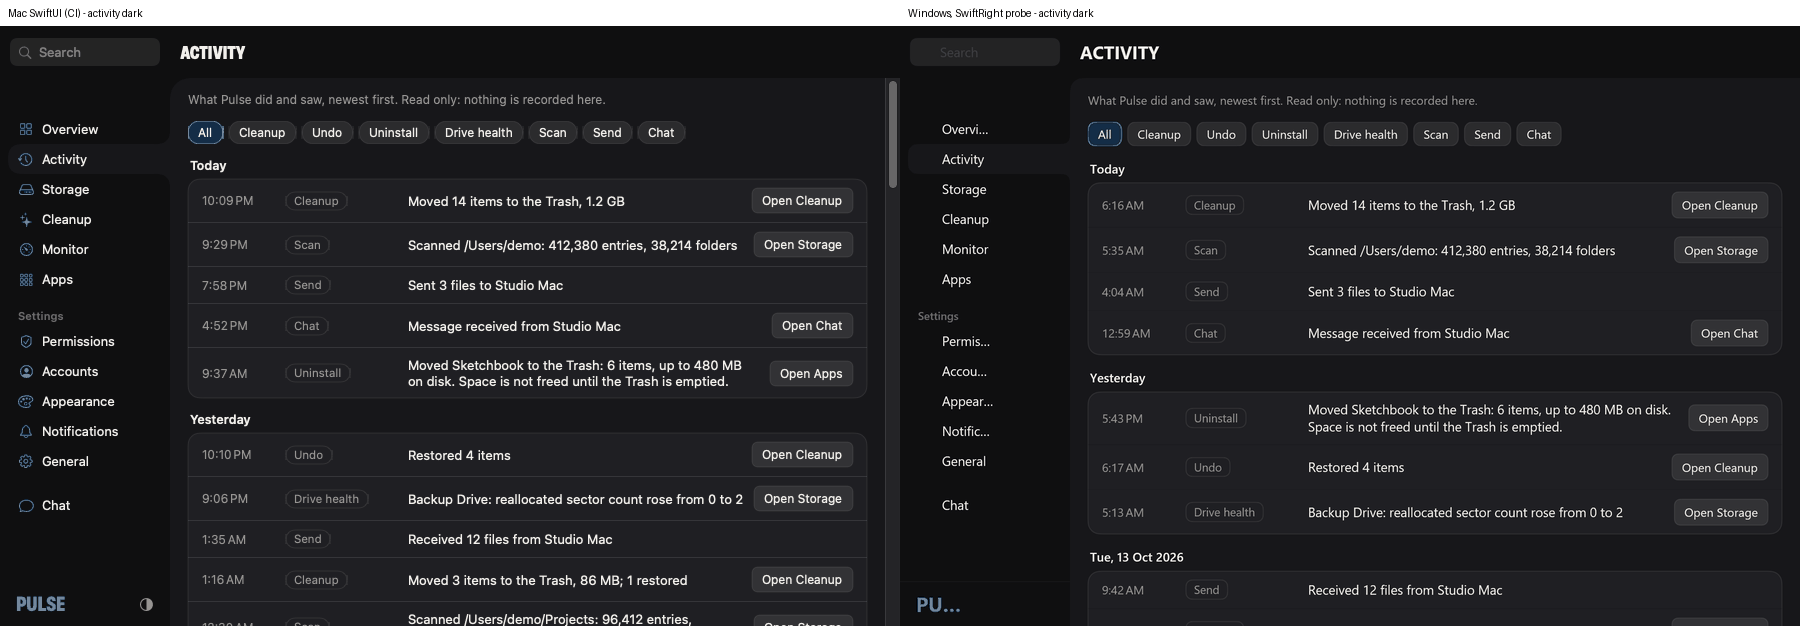
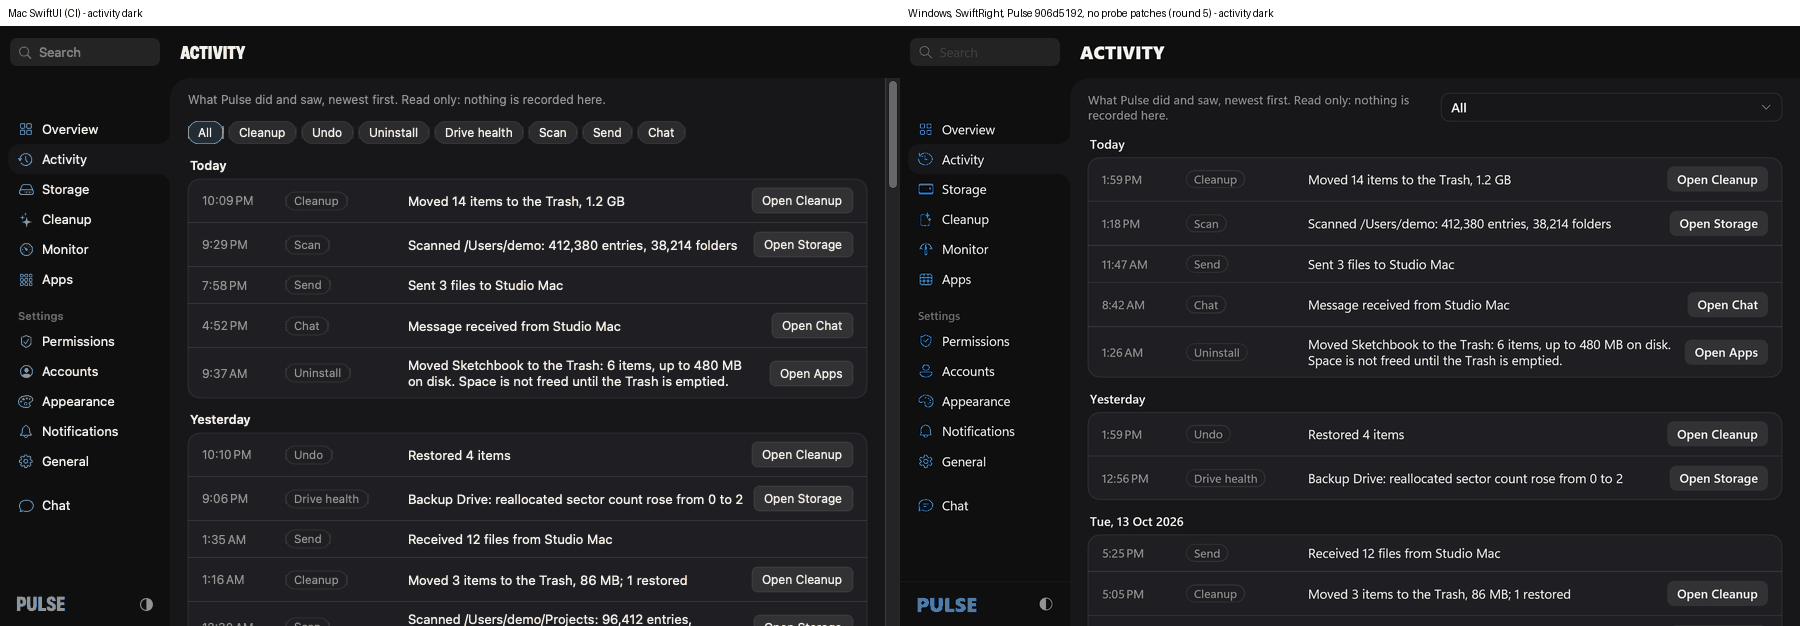
Pulse hub on Windows, round 5: all 12 sections x light/dark render unpatched at Pulse 906d5192; port doc result tables, measured effort; pictures refreshed

diff --git a/docs/pulse-hub-windows-port.md b/docs/pulse-hub-windows-port.md
@@ -8,6 +8,72 @@ Date: 15 October 2026. Requested by Pulse Swift. Inputs: Orthic-Labs/pulse code 
 - **Render: all 12 sections render in light and dark (24 of 24 pictures), but only with 14 probe patches to the product's paint and text policy** (table B). Unpatched, the first Overview frame stops at the first text measurement. The pictures are a static first frame; nothing was clicked, typed or scrolled. They are not pixel-comparable to the Mac: icons are missing (38 SF Symbols, the table holds one), fonts are approximated, and several rows truncate that do not on the Mac.
 - **Effort: about 17 agentic hours of critical path for the gaps as grouped below (16 blocks at the measured round-4 rate of 1.08 h per block, one lane), 36 h at the measured round-3 end-to-end rate.** Not included: Oracle review (round 4 has none), a fit pass over the 12 sections after the blocks land, and anything interactive. Arithmetic in section 4.
 
+## 0. Round 5 result (15 October, later the same day): the gaps are closed
+
+Pulse at `906d5192` (Pulse main, parity pass), SwiftRight stage `795d1644a-38920803`. **No stubs, no source bypass, no runtime or host patch**: the probe package is Pulse's sources untouched plus the SwiftUI re-export shim and a `Bundle.module` shim (probe packaging: PulseHub's Tanker resource bundle is not bundled, licence unconfirmed; `probes/pulse-hub/r5/`; assemble with `PULSE_SHA=906d5192 R5=1`). All five modules (`RightKitEngine`, `RightKitHub`, `RightKitHubQA`, `PulseHub`, `PulseHubFixtures`) and the `FactoryProbe` host compile for Windows with 0 errors, and **all 12 sections render in light and dark: 24 of 24 pictures** through the product's own paint and text path (`docs/pulse-hub-windows/<section>-<scheme>.png`, last panel; the Tauri and Mac panels are the earlier CI artifact and predate Pulse's parity pass). No `HOST_RENDER_ERROR`, no ellipsis-only fallback, no opaque-black rect in any section. Honest limits: the pictures are static first frames (nothing clicked, typed, scrolled; the live `.task` path never ran); nothing was compared pixel by pixel with the Mac (fonts differ, decision 2); four capture runs report `GetClientRect failed` but produced valid pictures, and a first-launch Sandbox capture occasionally comes out blank (the Activity page needs a 15-20 s wait): the pictures were re-taken until none was blank.
+
+### Compile gaps (table A)
+
+| # | API | Status |
+|---|---|---|
+| G01 | `AnyView`, `.id` | closed (block 26, F12) |
+| G02-G06 | `accessibilityElement`, `Value`, `AddTraits`, `Hint`, `Hidden` | compile and behave (block 32, F10); hint not published (no ABI field), value on a Text and the header/link traits not delivered |
+| G07 | `Text(verbatim:)` | closed (block 26) |
+| G08 | `State(initialValue:)` | closed (block 26) |
+| G09, G10 | `Color.clear`, `Color.opacity` -> `Color` | closed (blocks 26, 31) |
+| G11 | single-child `ViewBuilder` identity | closed (block 26) |
+| G12 | `VerticalAlignment.firstTextBaseline` / `lastTextBaseline` | closed (block 33, F3) |
+| G13, G14 | `Font.Weight.heavy` (nine weights), `Font.width` | closed (block 28, F1); `width` carried, not drawn |
+| G15 | `layoutPriority` | closed (block 27, F11) |
+| G16, G18 | `View.id`, `ViewModifier` | closed (block 26) |
+| G17 | `TextField(axis:)` | compiles and is the single-line field (block 34, F9); growth over lines not delivered |
+| G19 | `Scene` / `WindowGroup` | shapes only (compile) |
+| G20 | `RelativeDateTimeFormatter` | fixed on Pulse's side (`#if os(Windows)`, f8460ed5) |
+
+### Render gaps (table B)
+
+| # | Gap | Status |
+|---|---|---|
+| R1 | SF Symbols | closed: 60 names mapped to Segoe Fluent Icons, font-sized regular/semibold/bold painting from Mac-measured sizes (block 29, F5-F8, F14-F16); shapes ungated, 12 weak mappings |
+| R2 | system fonts, text styles | closed (block 28, F1) |
+| R3 | `TextMeasureError.description` recursion | fixed first (c5898d25e), unit test |
+| R4 | `lineLimit(1)` where nothing fits | ellipsis alone instead of a refusal (F2); macOS clips instead |
+| R5 | run lookup refusal | a measurement within 1 px of the bounds is the run (F2) |
+| R6 | identifiers over 256 bytes | hashed to fit (F2) |
+| R7, R8 | large radii, zero-size and oversize shapes | closed: Apple's large-radius path family, exact bands, no-area shapes draw nothing (block 30, F4); a stroked pill not delivered; edge-AA on flat shoulders differs from Apple's by a named tolerance |
+| R9 | measurement cache bound | 8192 |
+| R10 | dark `Divider` | closed (block 31, F13) |
+| R11 | `Button` under opacity / empty frame | plain and borderless Buttons paint; bordered under opacity still refused |
+| R12 | transparent fills painted black | closed (block 31; the host's alpha path was later reworked by wave 0 T0, which measured the unpatched renderer draws an alpha-0 rect as nothing) |
+| new | a transaction over 4096 upserts (Monitor 4718, General 4186 nodes) was refused with `SWR_E_TOO_LARGE` | closed: sent as consecutive transactions in tree order (`BridgeWindow.commit`) |
+| new | dark bordered/prominent/disabled Buttons drew as white blobs | closed (block 36, F13) |
+| new | Windows `Image` from PNG/ICO bytes | closed for PNG/ICO by the Swift decoder (block 35, F17-F22); wave 0 I1's WIC/ImageIO service is behind `ImageDecoder.backend = .system` |
+
+### Per section at Pulse 906d5192
+
+"Compiles": the section's module is part of the building package. "Renders": a frame was drawn light and dark with no refusal and no probe patch. Node counts are the transaction size (the Monitor and General pages exceed the renderer's 4096-node transaction limit and are sent in two).
+
+| Section | Compiles | Renders (light, dark) | Nodes (images) | Truncation searches |
+|---|---|---|---|---|
+| overview | yes | yes, yes | 3333 (82) | 249 |
+| activity | yes | yes, yes | 2637 (245) | 89 |
+| storage | yes | yes, yes | 1096 (74) | 204 |
+| cleanup | yes | yes, yes | 1079 (59) | 129 |
+| monitor | yes | yes, yes | 4718 (118) | 389 |
+| apps | yes | yes, yes (placeholder icons until the PNG decode is wired on the Pulse side) | 1143 (75) | 194 |
+| chat | yes | yes, yes | 877 (54) | 144 |
+| permissions | yes | yes, yes | 503 (25) | 66 |
+| accounts | yes | yes, yes | 879 (61) | 150 |
+| appearance | yes | yes, yes | 1747 (118) | 208 |
+| notifications | yes | yes, yes | 930 (58) | 94 |
+| general | yes | yes, yes | 4186 (273) | 313 |
+
+Remaining differences visible in the pictures: Segoe UI is 5-10 % wider than SF, so some `lineLimit(1)` labels truncate that do not on the Mac; the display font (Tanker) is its system fallback; the glyph shapes of the symbols are Segoe Fluent's. Not verified: clicking, focus, typing, `Toggle`, `Menu`, scrolling, `.task` refresh, resize, animations, the accessibility tree of the hub, DPI other than 2.5.
+
+### Measured effort (agentic wall clock, one session beside the closure and wave-0 sessions; 15 October 06:55 to 14:15, 7.3 h)
+
+Per block: authoring (runtime, tests, cases, Mac references, N=1 on the Windows Sandbox), without the N=20 queue wait: 26 text-views 0.25 h, 27 layout-priority 0.4, 28 system-font 1.3, 29 system-symbols 1.5 (one subagent, in parallel), 30 continuous-shape-large 1.2 (the anti-aliasing investigation was 0.4), 31 paint-states 0.5, 32 accessibility 0.6, 33 baseline-alignment 0.7, 34 textfield-axis 0.2, 35 image-data 1.3 (subagent, in parallel), 36 button-dark 0.8; the crash fix 0.02; the hub probe, doc and bookkeeping about 2 h. Sum of block authoring 8.8 h over 7.3 h wall (two subagents ran in parallel). N=20 captured 57 cases at about 6.5 min each (390 s mean) in the shared Sandbox queue, overlapping the authoring. **Per block: 0.8 h of authoring mean (11 blocks), 0.66 h wall per block including everything**, against the planned 1.08 h per block and 16 blocks (17 h): the blocks that were API shapes cost 0.2-0.6 h, the two that needed measurement campaigns (fonts, symbols) and the shape anti-aliasing 1.2-1.5 h, so the estimate of two slow families (symbols, fonts) held and the rest were cheaper than round 4's rate. The split into 11 blocks instead of 16 grouped the gaps as the plan said. A fit pass over the 12 sections and anything interactive are still not done.
+
 ## 1. How it was compiled and rendered
 
 - Windows, Dell, headless `swift build` and `swiftc` only; stage `8bf89d2dc-aa6cd909` is read-only and untouched. Probe package `PulseHubProbe` has one target per Pulse module, a target named `SwiftUI` (shim: `@_exported import SwiftRightRuntime`, `Foundation`) so Pulse's `import SwiftUI` resolves, and the C module `CRightKitEngine` with `rkp_*` and `rke_install_engine` link stubs (`stubs/rkp_stubs.c`; the Rust staticlib is not built).
